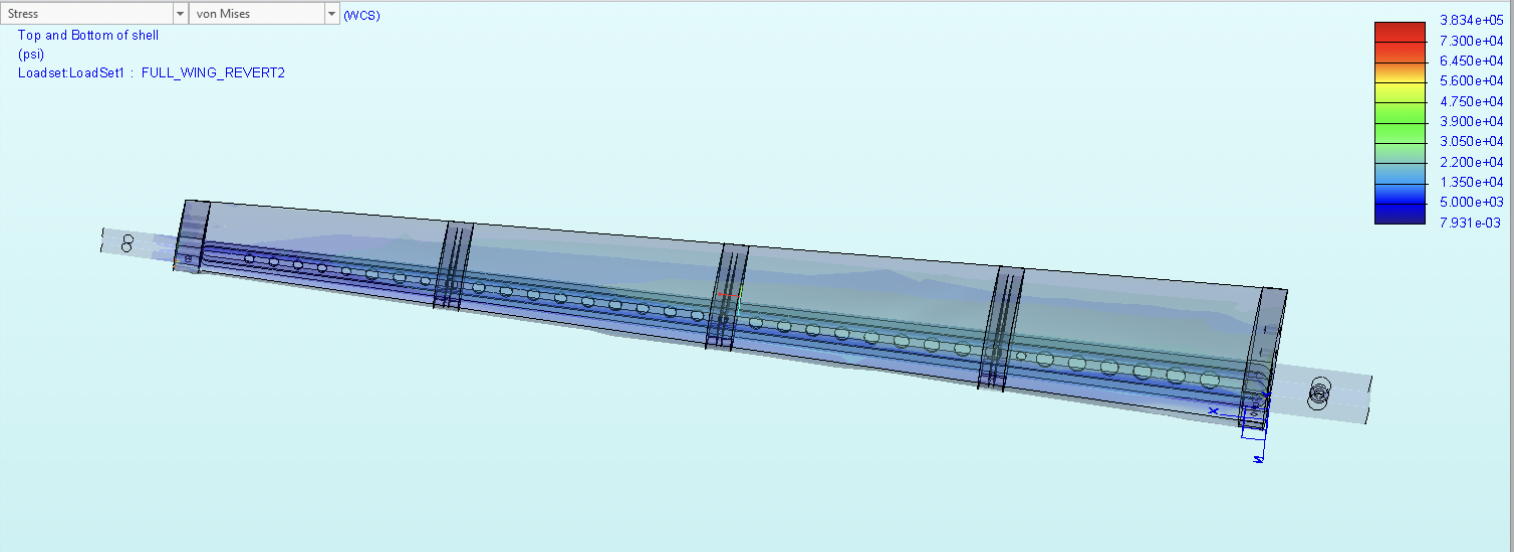
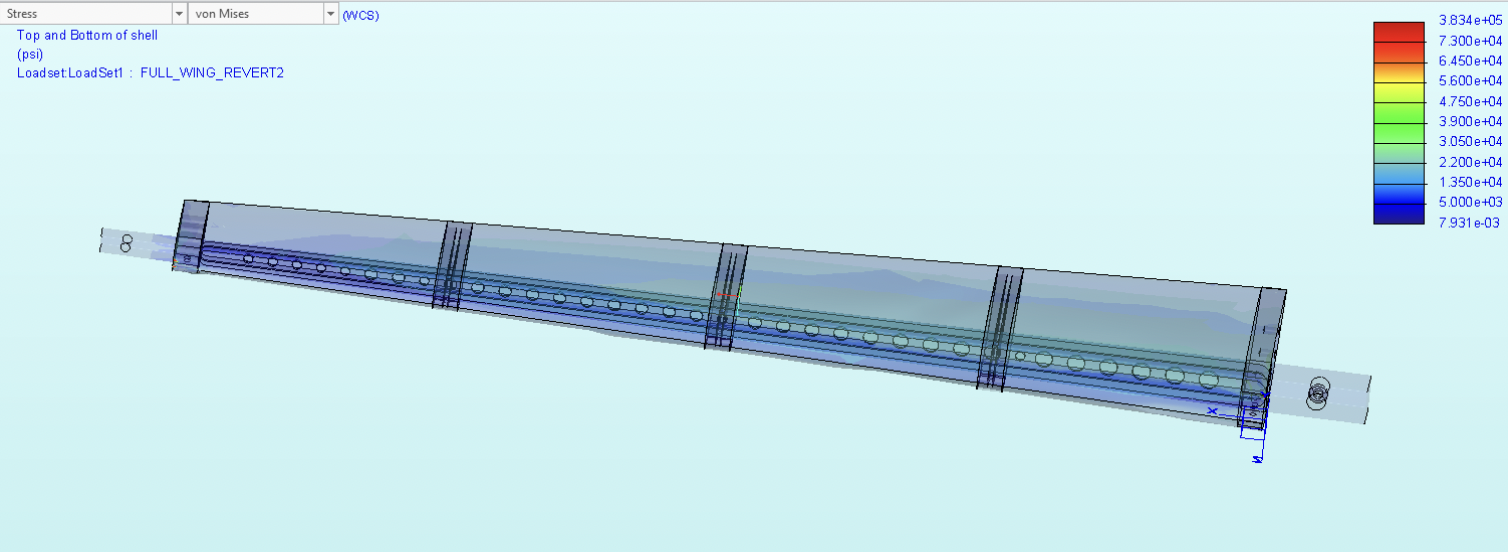
Added image for load-bearing airfoil project to index.html

diff --git a/index.html b/index.html
@@ -51,7 +51,7 @@
 									<p> Collaborated with 8 classmates to design and manufacture a 25.5-inch airfoil that supported 97 lbs. at the tip while
 										minimizing deflection, weight, and cost.</p>
 								</header>
-								<a href="airfoil.html" class="image main"><img src="images/pic01.jpg" alt="" /></a>
+								<a href="airfoil.html" class="image main"><img src="images/airfoil/assembly_fea.png" alt="" /></a>
 								<ul class="actions special">
 									<li><a href="airfoil.html" class="button large">See More</a></li>
 								</ul>
